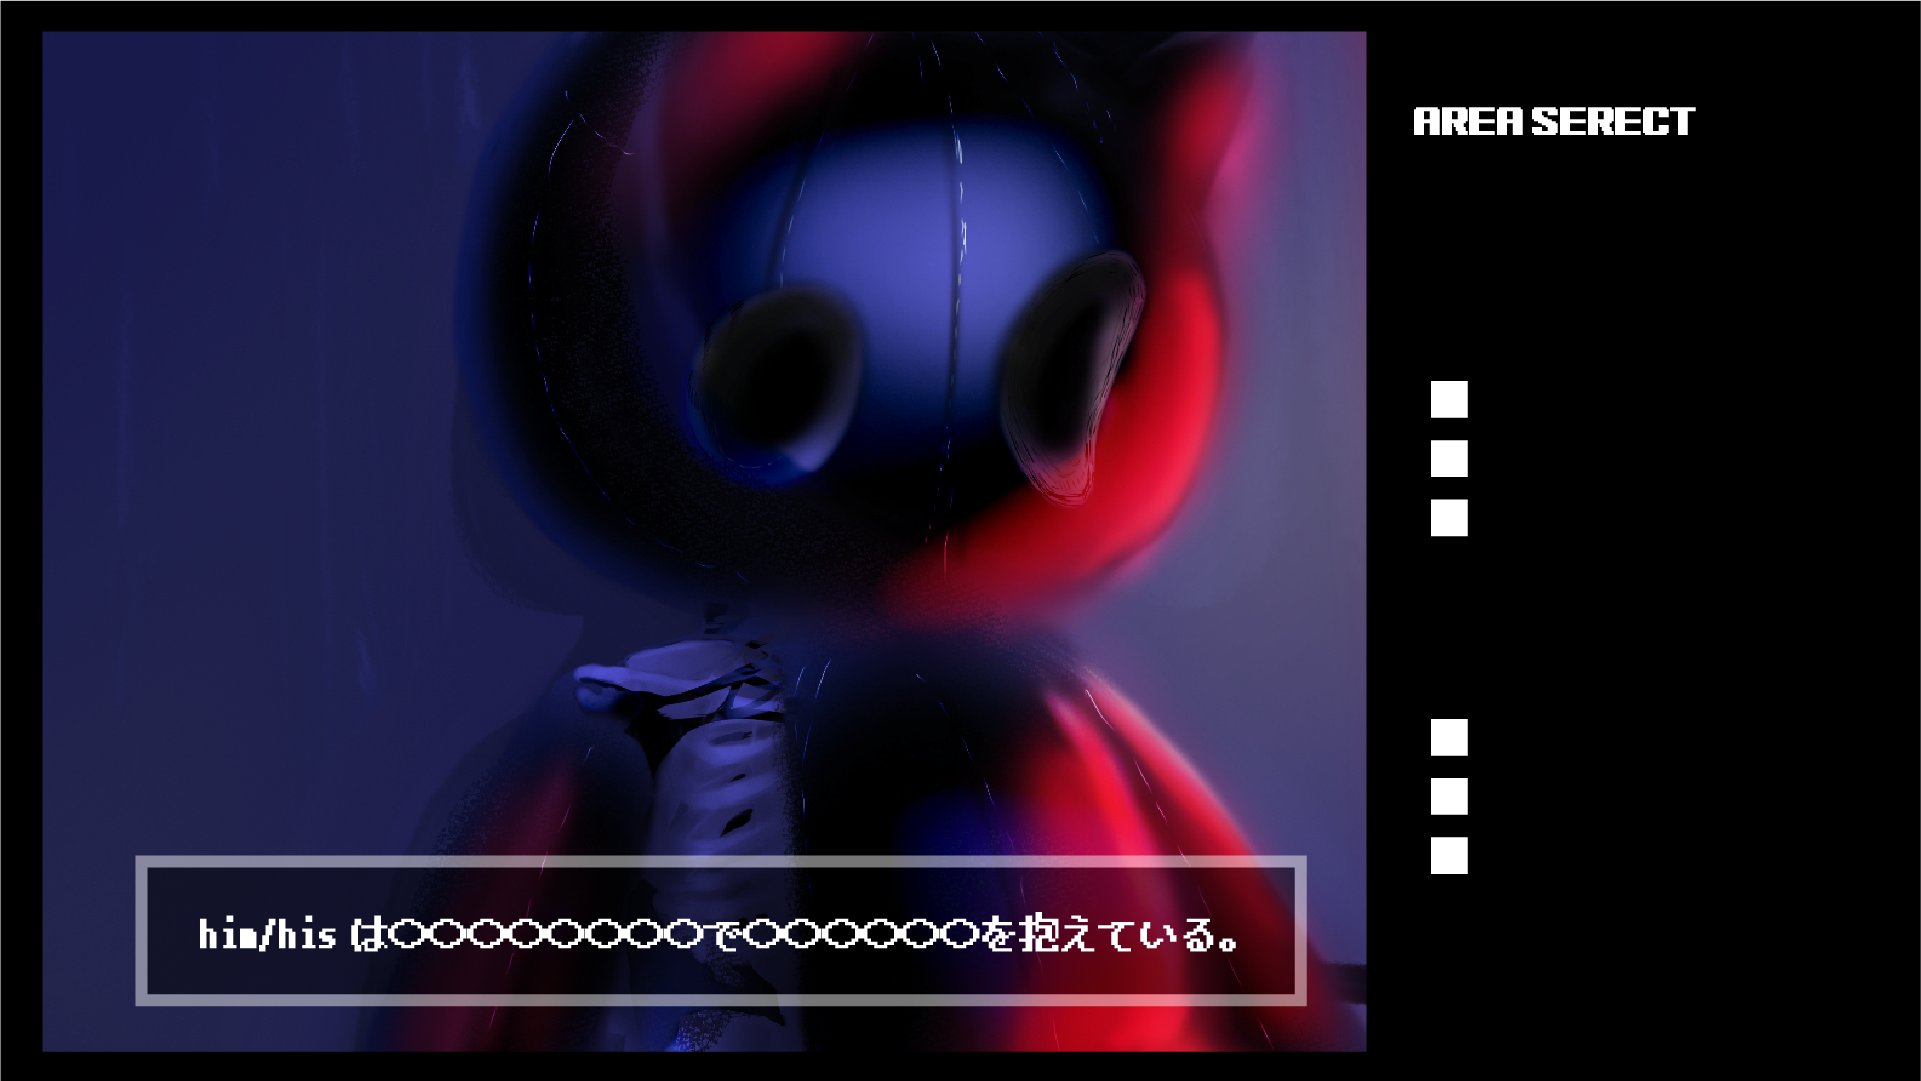
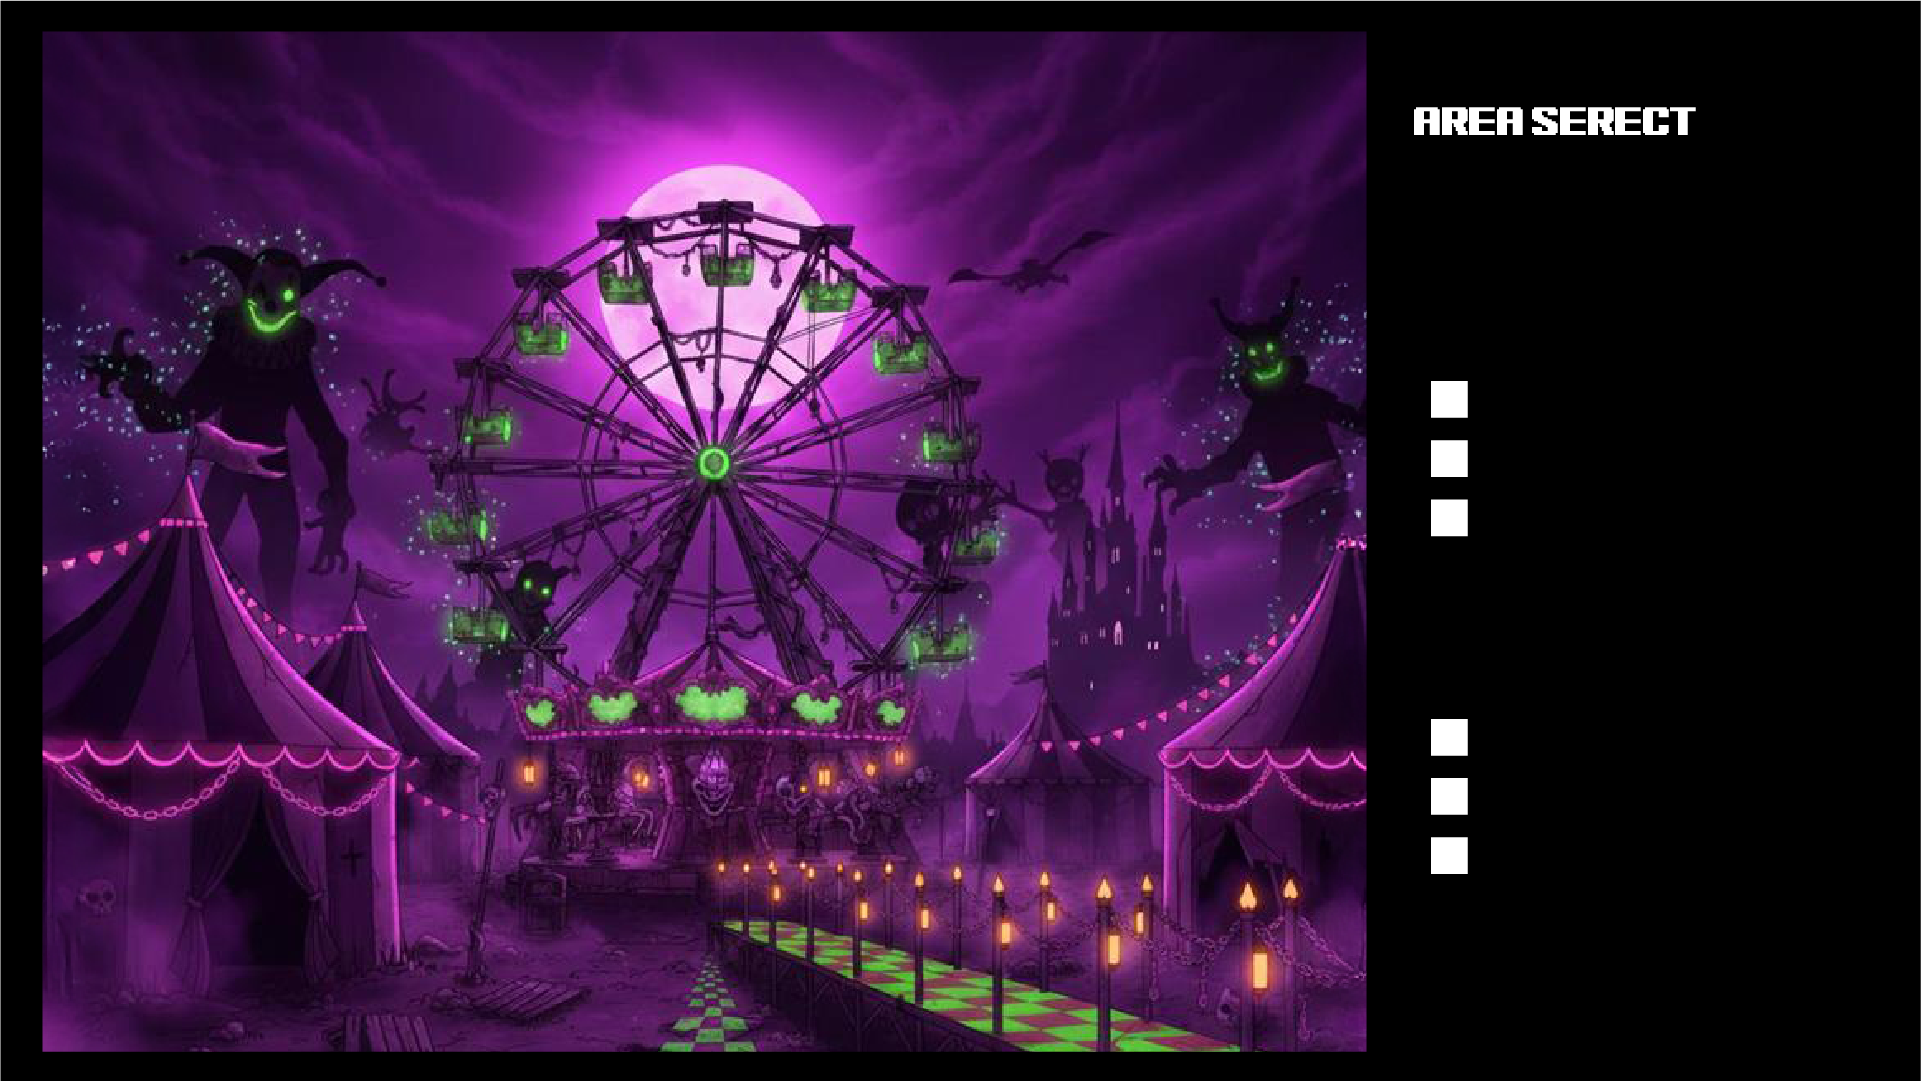
セレクトシーンを完成

diff --git a/Jam/src/Presentation/Scenes/SelectScene.h b/Jam/src/Presentation/Scenes/SelectScene.h
@@ -21,8 +21,14 @@ namespace Jam::Presentation::Scenes
 
 		s3d::Texture m_worldBackgroundTexture;
 		s3d::Texture m_stageBackgroundTexture;
-		s3d::Texture m_worldButtonTexture;
-		s3d::Texture m_stageButtonTexture;
+		s3d::Texture m_worldButtonTexture_01;
+		s3d::Texture m_worldButtonTexture_02;
+		s3d::Texture m_worldButtonTexture_03;
+
+		s3d::Texture m_stageButtonTexture_01;
+		s3d::Texture m_stageButtonTexture_02;
+		s3d::Texture m_stageButtonTexture_03;
+
 		s3d::Texture m_backButtonTexture;
 
 	public:
@@ -35,10 +41,15 @@ namespace Jam::Presentation::Scenes
 			FontAsset::Register(U"SelectStageFont", 30, Typeface::Regular);
 
 			// 画像の読み込み
-			m_worldBackgroundTexture = s3d::Texture{ U"Assets/Select/select_area.png" };
+			m_worldBackgroundTexture = s3d::Texture{ U"Assets/Select/serect-AREA_back-screen.png" };
 			m_stageBackgroundTexture = s3d::Texture{ U"Assets/Select/serect-stage_back-screen.png" };
-			m_worldButtonTexture = s3d::Texture{ U"Assets/Select/serect-area_stage01.png" };
-			m_stageButtonTexture = s3d::Texture{ U"Assets/Select/stage-serect_stage1-1.png" };
+			m_worldButtonTexture_01 = s3d::Texture{ U"Assets/Select/area_01.png" };
+			m_worldButtonTexture_02 = s3d::Texture{ U"Assets/Select/area_02.png" };
+			m_worldButtonTexture_03 = s3d::Texture{ U"Assets/Select/area_03.png" };
+			m_stageButtonTexture_01 = s3d::Texture{ U"Assets/Select/stage1_1.png" };
+			m_stageButtonTexture_02 = s3d::Texture{ U"Assets/Select/stage1_2.png" };
+			m_stageButtonTexture_03 = s3d::Texture{ U"Assets/Select/stage1_3.png" };
+
 			m_backButtonTexture = s3d::Texture{ U"Assets/Select/stage-serect_BACK.png" };
 			Jam::Foundation::CoreManager::Instance().setClear(false);
 		}
@@ -106,71 +117,63 @@ namespace Jam::Presentation::Scenes
 		void updateWorldSelect()
 		{
 			// --- 画面サイズに基づいた相対的な値 ---
-			// 基準解像度 (1920 x 1080)
 			const double baseWidth = 1920.0;
 			const double baseHeight = 1080.0;
 
 			const double buttonWidth = Scene::Width() * (400.0 / baseWidth);
 			const double buttonHeight = Scene::Height() * (150.0 / baseHeight);
-			const double buttonSpacing = Scene::Height() * (200.0 / baseHeight); // 縦のスペーシング
-			const double startX = Scene::Width() - (Scene::Width() * (490.0 / baseWidth)); // 右端からのオフセット
-			const double startY = Scene::Height() * (200.0 / baseHeight); // 上端からのオフセット
+			const double buttonSpacing = Scene::Height() * (200.0 / baseHeight);
+			const double startX = Scene::Width() - (Scene::Width() * (490.0 / baseWidth));
+			const double startY = Scene::Height() * (200.0 / baseHeight);
 
-			// World 1 ボタン
-			const RectF world1Button{ startX, startY + (buttonHeight + buttonSpacing) * 0, buttonWidth, buttonHeight };
-			if (world1Button.leftClicked())
+			// --- Area01（上） ---
+			const RectF area01{ startX, startY + (buttonHeight + buttonSpacing) * 0, buttonWidth, buttonHeight };
+			if (area01.leftClicked())
 			{
-				Print << U"World 1 Selected";
 				m_selectedWorld = 1;
 				m_state = State::StageSelect;
 			}
 
-			// World 2 ボタン
-			const RectF world2Button{ startX, startY + (buttonHeight + buttonSpacing) * 1, buttonWidth, buttonHeight };
-			if (world2Button.leftClicked())
+			// --- Area02（中） ---
+			const RectF area02{ startX, startY + (buttonHeight + buttonSpacing) * 1, buttonWidth, buttonHeight };
+			if (area02.leftClicked())
 			{
-				Print << U"World 2 Selected";
-				m_selectedWorld = 2;
-				m_state = State::StageSelect;
+				//m_selectedWorld = 2;
+				//m_state = State::StageSelect;
 			}
 
-			// World 3 ボタン
-			const RectF world3Button{ startX, startY + (buttonHeight + buttonSpacing) * 2, buttonWidth, buttonHeight };
-			if (world3Button.leftClicked())
+			// --- Area03（下） ---
+			const RectF area03{ startX, startY + (buttonHeight + buttonSpacing) * 2, buttonWidth, buttonHeight };
+			if (area03.leftClicked())
 			{
-				Print << U"World 3 Selected";
-				m_selectedWorld = 3;
-				m_state = State::StageSelect;
+				//m_selectedWorld = 3;
+				//m_state = State::StageSelect;
 			}
 		}
+
 
 		// --- ワールド選択の描画 ---
 		void drawWorldSelect() const
 		{
-			// --- 画面サイズに基づいた相対的な値 ---
-			// 基準解像度 (1920 x 1080)
 			const double baseWidth = 1920.0;
 			const double baseHeight = 1080.0;
 
 			const double buttonWidth = Scene::Width() * (400.0 / baseWidth);
 			const double buttonHeight = Scene::Height() * (150.0 / baseHeight);
-			const double buttonSpacing = Scene::Height() * (200.0 / baseHeight); // 縦のスペーシング
-			const double startX = Scene::Width() - (Scene::Width() * (490.0 / baseWidth)); // 右端からのオフセット
-			const double startY = Scene::Height() * (200.0 / baseHeight); // 上端からのオフセット
-			// --- ここまで ---
+			const double buttonSpacing = Scene::Height() * (200.0 / baseHeight);
+			const double startX = Scene::Width() - (Scene::Width() * (490.0 / baseWidth));
+			const double startY = Scene::Height() * (200.0 / baseHeight);
 
-			// World 1 ボタン
-			const RectF world1Button{ startX, startY + (buttonHeight + buttonSpacing) * 0, buttonWidth, buttonHeight };
-			drawButton(world1Button, U"", world1Button.mouseOver(), m_worldButtonTexture);
+			// --- 上から順に 01 → 02 → 03 ---
+			const RectF area01{ startX, startY + (buttonHeight + buttonSpacing) * 0, buttonWidth, buttonHeight };
+			const RectF area02{ startX, startY + (buttonHeight + buttonSpacing) * 1, buttonWidth, buttonHeight };
+			const RectF area03{ startX, startY + (buttonHeight + buttonSpacing) * 2, buttonWidth, buttonHeight };
 
-			// World 2 ボタン
-			const RectF world2Button{ startX, startY + (buttonHeight + buttonSpacing) * 1, buttonWidth, buttonHeight };
-			drawButton(world2Button, U"", world2Button.mouseOver(), m_worldButtonTexture);
-
-			// World 3 ボタン
-			const RectF world3Button{ startX, startY + (buttonHeight + buttonSpacing) * 2, buttonWidth, buttonHeight };
-			drawButton(world3Button, U"", world3Button.mouseOver(), m_worldButtonTexture);
+			drawButton(area01, U"", area01.mouseOver(), m_worldButtonTexture_01);
+			drawButton(area02, U"", area02.mouseOver(), m_worldButtonTexture_02);
+			drawButton(area03, U"", area03.mouseOver(), m_worldButtonTexture_03);
 		}
+
 
 		// --- ステージ選択のロジック ---
 		void updateStageSelect()
@@ -183,7 +186,6 @@ namespace Jam::Presentation::Scenes
 			const RectF backButton{ 0, 0, Scene::Width() * (250.0 / baseWidth), Scene::Height() * (80.0 / baseHeight) };
 			if (backButton.leftClicked())
 			{
-				Print << U"Back to World Select";
 				m_state = State::WorldSelect;
 			}
 
@@ -203,7 +205,6 @@ namespace Jam::Presentation::Scenes
 				if (stage1_1_Button.leftClicked())
 				{
 					Jam::Foundation::CoreManager::Instance().stageInfo.stageName = Jam::Foundation::StageName::Stage1_1;
-					Print << U"Stage 1-1 Selected. CoreManager set.";
 					changeScene(ToSceneString(SceneName::Story), 1.0s);
 				}
 
@@ -211,7 +212,6 @@ namespace Jam::Presentation::Scenes
 				if (stage1_2_Button.leftClicked())
 				{
 					Jam::Foundation::CoreManager::Instance().stageInfo.stageName = Jam::Foundation::StageName::Stage1_2;
-					Print << U"Stage 1-2 Selected. CoreManager set.";
 					changeScene(ToSceneString(SceneName::Story), 1.0s);
 				}
 
@@ -252,13 +252,13 @@ namespace Jam::Presentation::Scenes
 			if (m_selectedWorld == 1)
 			{
 				const RectF stage1_1_Button{ startX, startY + (buttonHeight + buttonSpacing) * 0, buttonWidth, buttonHeight };
-				drawButton(stage1_1_Button, U"", stage1_1_Button.mouseOver(), m_stageButtonTexture, U"SelectStageFont");
+				drawButton(stage1_1_Button, U"", stage1_1_Button.mouseOver(), m_stageButtonTexture_01, U"SelectStageFont");
 
 				const RectF stage1_2_Button{ startX, startY + (buttonHeight + buttonSpacing) * 1, buttonWidth, buttonHeight };
-				drawButton(stage1_2_Button, U"", stage1_2_Button.mouseOver(), m_stageButtonTexture, U"SelectStageFont");
+				drawButton(stage1_2_Button, U"", stage1_2_Button.mouseOver(), m_stageButtonTexture_02, U"SelectStageFont");
 
 				const RectF stage1_3_Button{ startX, startY + (buttonHeight + buttonSpacing) * 2, buttonWidth, buttonHeight };
-				drawButton(stage1_3_Button, U"", stage1_3_Button.mouseOver(), m_stageButtonTexture, U"SelectStageFont");
+				drawButton(stage1_3_Button, U"", stage1_3_Button.mouseOver(), m_stageButtonTexture_03, U"SelectStageFont");
 			}
 			else if (m_selectedWorld == 2)
 			{

diff --git a/Jam/Main.cpp b/Jam/Main.cpp
@@ -63,7 +63,7 @@ void Main()
 		Jam::Presentation::Scenes::ToSceneString(Jam::Presentation::Scenes::SceneName::Result));
 
 	// GameSceneから開始するように明示的に指定
-	manager.init(Jam::Presentation::Scenes::ToSceneString(Jam::Presentation::Scenes::SceneName::Title));
+	manager.init(Jam::Presentation::Scenes::ToSceneString(Jam::Presentation::Scenes::SceneName::Select));
 
 	while (System::Update())
 	{

diff --git a/Jam/src/Presentation/Scenes/StoryScene.h b/Jam/src/Presentation/Scenes/StoryScene.h
@@ -98,7 +98,7 @@ namespace Jam::Presentation::Scenes
 
 			// ストーリーの開始ファイルを判定
 			String storySuffix = core.getClear() ? U"_clear" : U"_start";
-			Print << basePath + stageName + storySuffix + U".csv";
+			//Print << basePath + stageName + storySuffix + U".csv";
 
 			// StoryManager初期化
 			bool ok = storyManager.init(

diff --git a/Jam/src/Presentation/Scenes/TitleScene.h b/Jam/src/Presentation/Scenes/TitleScene.h
@@ -59,6 +59,11 @@ namespace Jam::Presentation::Scenes
 					break;
 				}
 			}
+
+			if(MouseL.down()||MouseR.down())
+			{
+				changeScene(ToSceneString(SceneName::Select), 1.0);
+			}
 		}
 
 		// 描画処理
